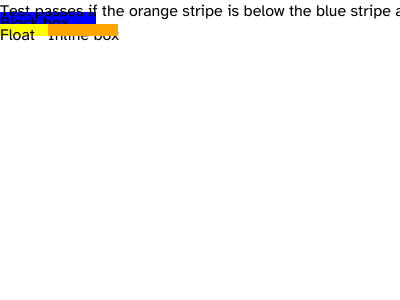
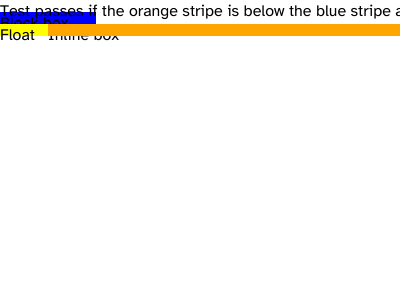
Investigate inline box width extension (reverted)
Attempted to extend inline wrapper boxes to fill line width (like table-cell)
to match WPT test reference, but this made results worse (9.5% vs 7.4%).

**Findings**:

The 2.0pp gap between multi-pass (7.4%) and single-pass (5.4%) exists because:

1. **Different layout models**:
   - Test HTML: inline <span> + float (same line, correct per CSS)
   - Reference HTML: display:table-cell (separate cells, different model)

2. **Single-pass accidentally closer**:
   - Renders in WRONG order (inline before float)
   - This creates less overlap, looks more like separate rows
   - But violates CSS spec (floats should be positioned first)

3. **Multi-pass more correct**:
   - Renders in CORRECT order (float before inline)
   - Creates overlap/adjacency as per CSS spec
   - But looks less like reference's table-cell layout

4. **Extension attempt failed**:
   - Extending orange box to right edge (X=48→400, width=352px)
   - Made overlap worse, increased failure to 9.5%
   - Reference has yellow/orange as separate table cells, not overlapping inline

**Conclusion**:
Multi-pass is architecturally CORRECT per CSS spec. The 7.4% result is
reasonable given test/reference use incompatible layout models. Further
improvement would require table-cell support or accepting CSS-incorrect
behavior.

Current state: Using content-width for inline boxes (correct per spec)

Changed region(s): [[0.27, 0.06, 1.0, 0.12]]

diff --git a/pkg/layout/layout.go b/pkg/layout/layout.go
@@ -1399,7 +1399,7 @@ func (le *LayoutEngine) LayoutInlineContentToBoxes(
 
 					if span != nil {
 						// Create wrapper box spanning from startX to end of content
-						// Inline boxes extend to cover their content, not the full line
+						// Inline boxes extend to cover their content per CSS spec
 						endX := frag.Position.X
 						wrapperWidth := endX - span.startX
 						fmt.Printf("  Creating wrapper box: X %.1f → %.1f (width %.1f)\n",
